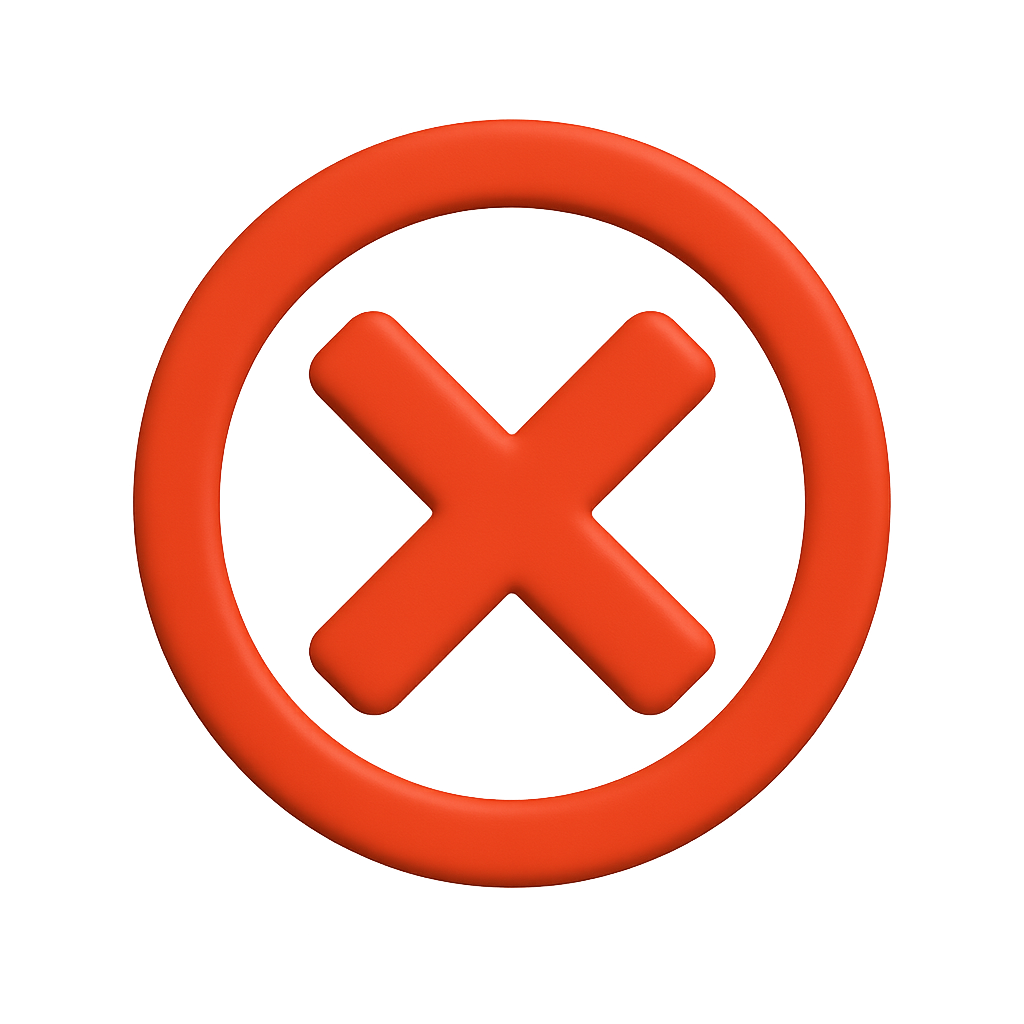
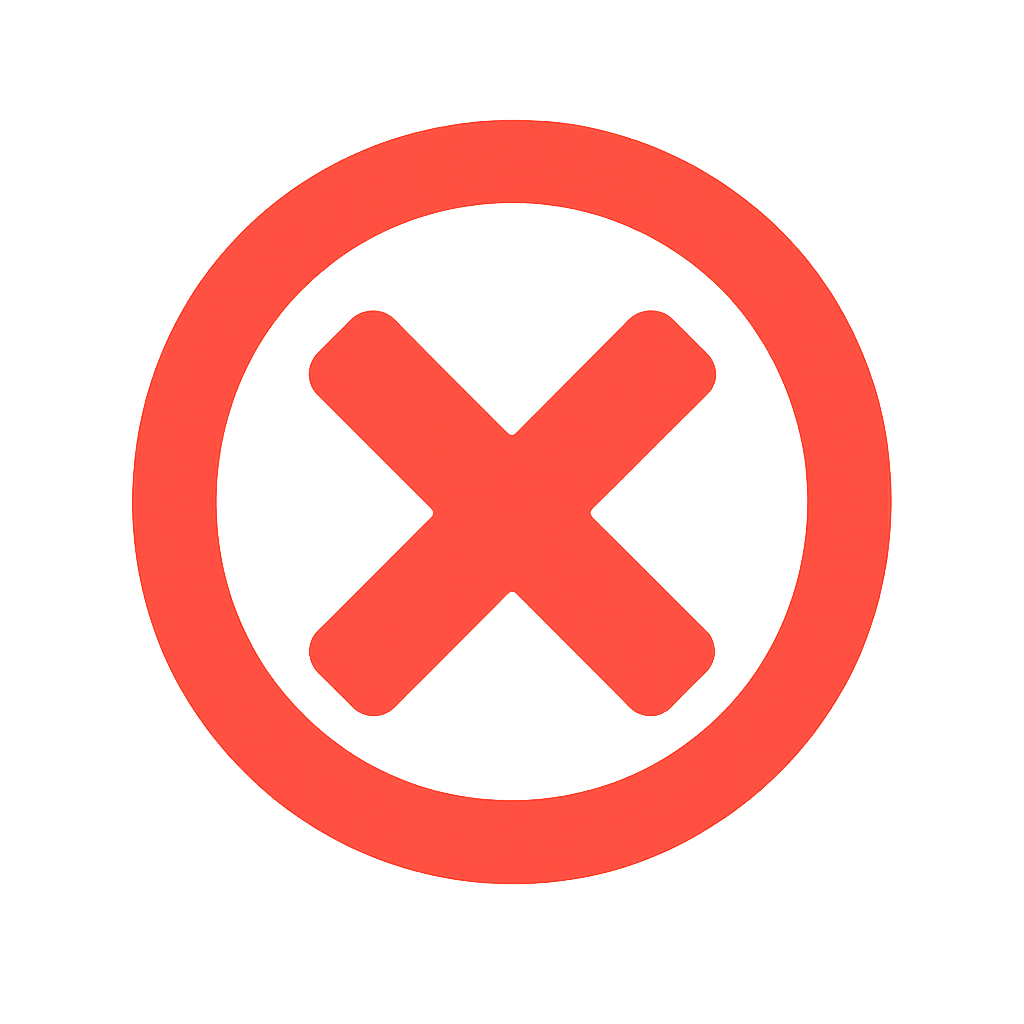
refactor: simplify ShowResults component and enhance DisplayResults for better clarity fix: update incorrectAnswer color to ensure consistent visual feedback

Changed region(s): [[0.125, 0.125, 0.875, 0.875]]

diff --git a/app/game/[level].tsx b/app/game/[level].tsx
@@ -1,7 +1,6 @@
 import Close from "@/assets/images/close.png";
 import FireColors from "@/assets/images/fire-colors.png";
 import Heart from "@/assets/images/heart.png";
-import CircleX from "@/assets/images/circle-x.png";
 import { MainButton } from "@/components/MainButton";
 import MathTaskWithResult from "@/components/mathTasks/MathTaskWithResult";
 import Progressbar from "@/components/Progressbar";
@@ -18,6 +17,8 @@ import { useCallback, useEffect, useMemo, useRef } from "react";
 import { StyleSheet } from "react-native";
 import { GestureHandlerRootView } from "react-native-gesture-handler";
 import { useSafeAreaInsets } from "react-native-safe-area-context";
+// import circle-x from "react-native-svg/lib/typescript/icons/circle-x";
+import CircleX from "@/assets/images/circle-x.png";
 
 export default function GameLevelScreen() {
   const {
@@ -284,53 +285,13 @@ function ShowResults({ onNextTaskPress, isAllAnswersCorrect }: ShowResultsProps)
       >
         <BottomSheetView style={{ ...styles.contentContainer, backgroundColor: background }}>
           {isAllAnswersCorrect ? (
-            <ThemedView
-              style={{
-                marginBottom: 10,
-              }}
-            >
-              <ThemedView
-                style={{
-                  gap: 10,
-                  flexDirection: "row",
-                  alignItems: "center",
-                }}
-              >
-                <ThemedText type="subtitle" style={{ textAlign: "left" }}>
-                  Pareizi!
-                </ThemedText>
-                <ThemedView style={{ ...styles.imgContainer }}>
-                  <Image style={styles.image} source={FireColors} contentFit="cover" transition={1000} />
-                </ThemedView>
-              </ThemedView>
-              <ThemedText style={{ fontSize: 16, marginBottom: 20, textAlign: "left" }}>
-                Visas atbildes ir pareizas! Turpini tā!
-              </ThemedText>
-            </ThemedView>
+            <DisplayResults title="Pareizi!" description="Visas atbildes ir pareizas! Turpini tā!" />
           ) : (
-            <ThemedView
-              style={{
-                marginBottom: 10,
-              }}
-            >
-              <ThemedView
-                style={{
-                  gap: 10,
-                  flexDirection: "row",
-                  alignItems: "center",
-                }}
-              >
-                <ThemedText type="subtitle" style={{ textAlign: "left" }}>
-                  Uzdevums pabeigts!
-                </ThemedText>
-                <ThemedView style={{ ...styles.imgContainer }}>
-                  <Image style={styles.image} source={CircleX} contentFit="cover" transition={1000} />
-                </ThemedView>
-              </ThemedView>
-              <ThemedText style={{ fontSize: 16, marginBottom: 20, textAlign: "left" }}>
-                Daļa no atbildēm nav pareiza. Nākamreiz būs labāk!
-              </ThemedText>
-            </ThemedView>
+            <DisplayResults
+              isIncorrectAnswer
+              title="Nepareizi!"
+              description="Daļa no atbildēm nav pareizas. Nākamreiz būs labāk!"
+            />
           )}
           <ThemedView style={{ width: "100%", alignItems: "center" }}>
             <MainButton onPress={onNextTaskPress}>
@@ -347,6 +308,58 @@ function ShowResults({ onNextTaskPress, isAllAnswersCorrect }: ShowResultsProps)
         </BottomSheetView>
       </BottomSheet>
     </GestureHandlerRootView>
+  );
+}
+
+interface DisplayResultsProps {
+  title: string;
+  isIncorrectAnswer?: boolean;
+  description: string;
+}
+
+function DisplayResults({ title, isIncorrectAnswer, description }: DisplayResultsProps) {
+  const { incorrectAnswer } = useThemeColor();
+
+  return (
+    <ThemedView
+      style={{
+        marginBottom: 10,
+      }}
+    >
+      <ThemedView
+        style={{
+          gap: 10,
+          flexDirection: "row",
+          alignItems: "center",
+        }}
+      >
+        <ThemedText
+          type="subtitle"
+          style={{ textAlign: "left" }}
+          darkColor={isIncorrectAnswer ? incorrectAnswer : undefined}
+          lightColor={isIncorrectAnswer ? incorrectAnswer : undefined}
+        >
+          {title}
+        </ThemedText>
+        <ThemedView style={{ ...styles.imgContainer }}>
+          <Image
+            style={styles.image}
+            source={isIncorrectAnswer ? CircleX : FireColors}
+            contentFit="cover"
+            transition={1000}
+          />
+        </ThemedView>
+      </ThemedView>
+      <ThemedText
+        style={{
+          fontSize: 16,
+          marginBottom: 20,
+          textAlign: "left",
+        }}
+      >
+        {description}
+      </ThemedText>
+    </ThemedView>
   );
 }
 

diff --git a/constants/Colors.ts b/constants/Colors.ts
@@ -18,7 +18,7 @@ export const Colors = {
     tabIconDefault: "#687076",
     tabIconSelected: tintColorLight,
     notAnsweredBorder: "#d1d5db",
-    incorrectAnswer: "#D81E5B",
+    incorrectAnswer: "#ef4444",
     clickedAnswer: "#374151",
     correctAnswer: "#09E85E",
   },
@@ -30,7 +30,7 @@ export const Colors = {
     tabIconDefault: "#9BA1A6",
     tabIconSelected: tintColorDark,
     notAnsweredBorder: "#d1d5db",
-    incorrectAnswer: "#D81E5B",
+    incorrectAnswer: "#ef4444",
     clickedAnswer: "#374151",
     correctAnswer: "#09E85E",
   },
